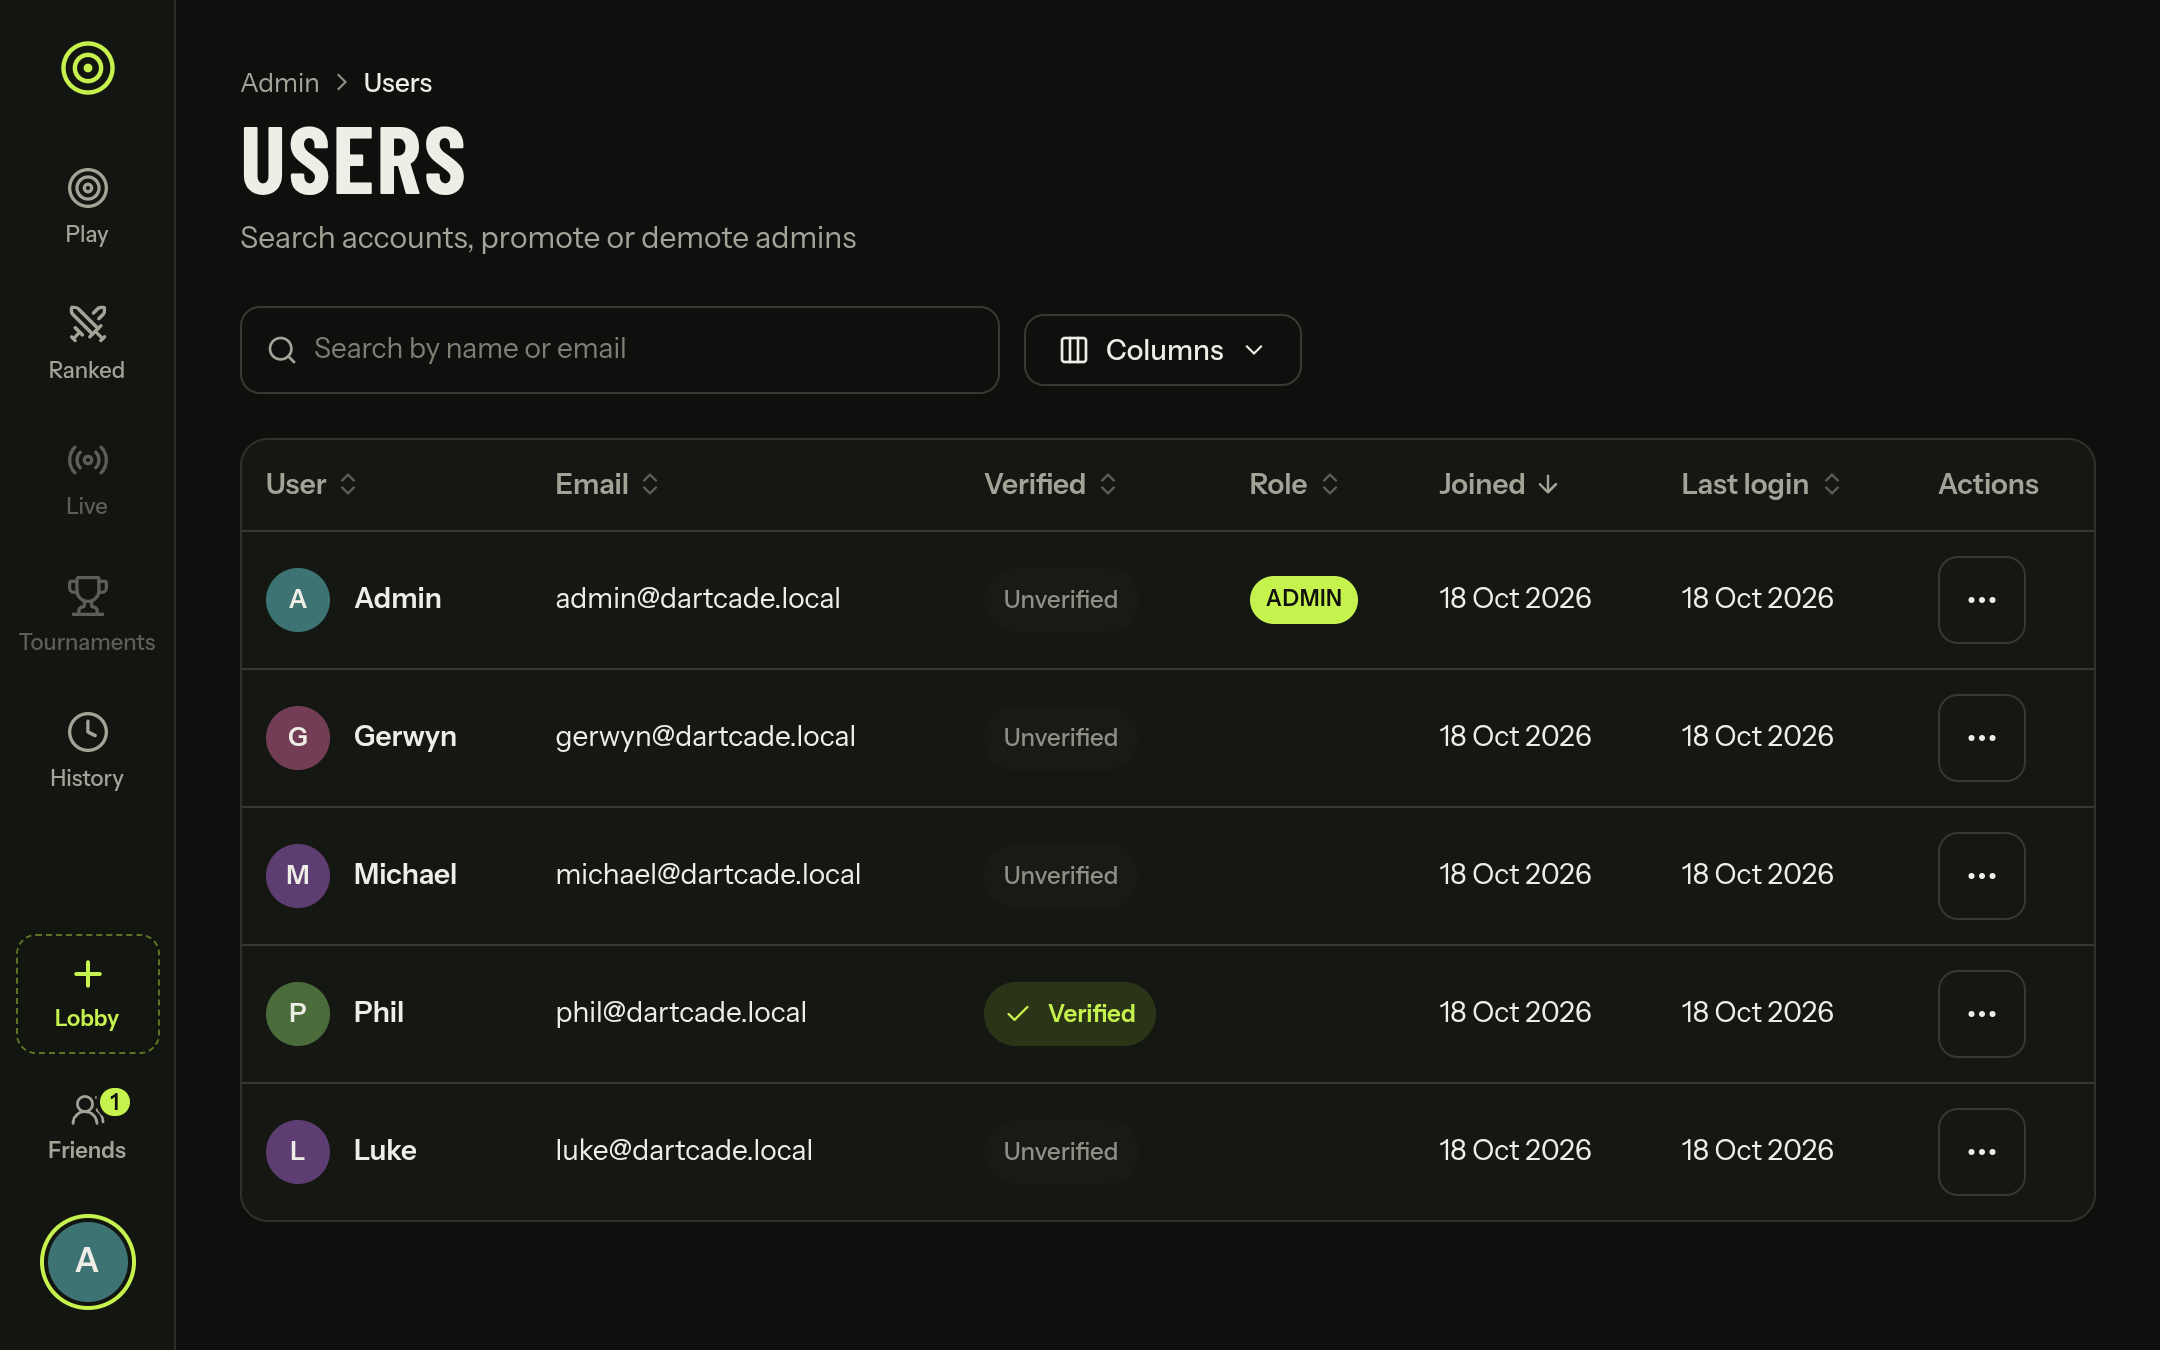
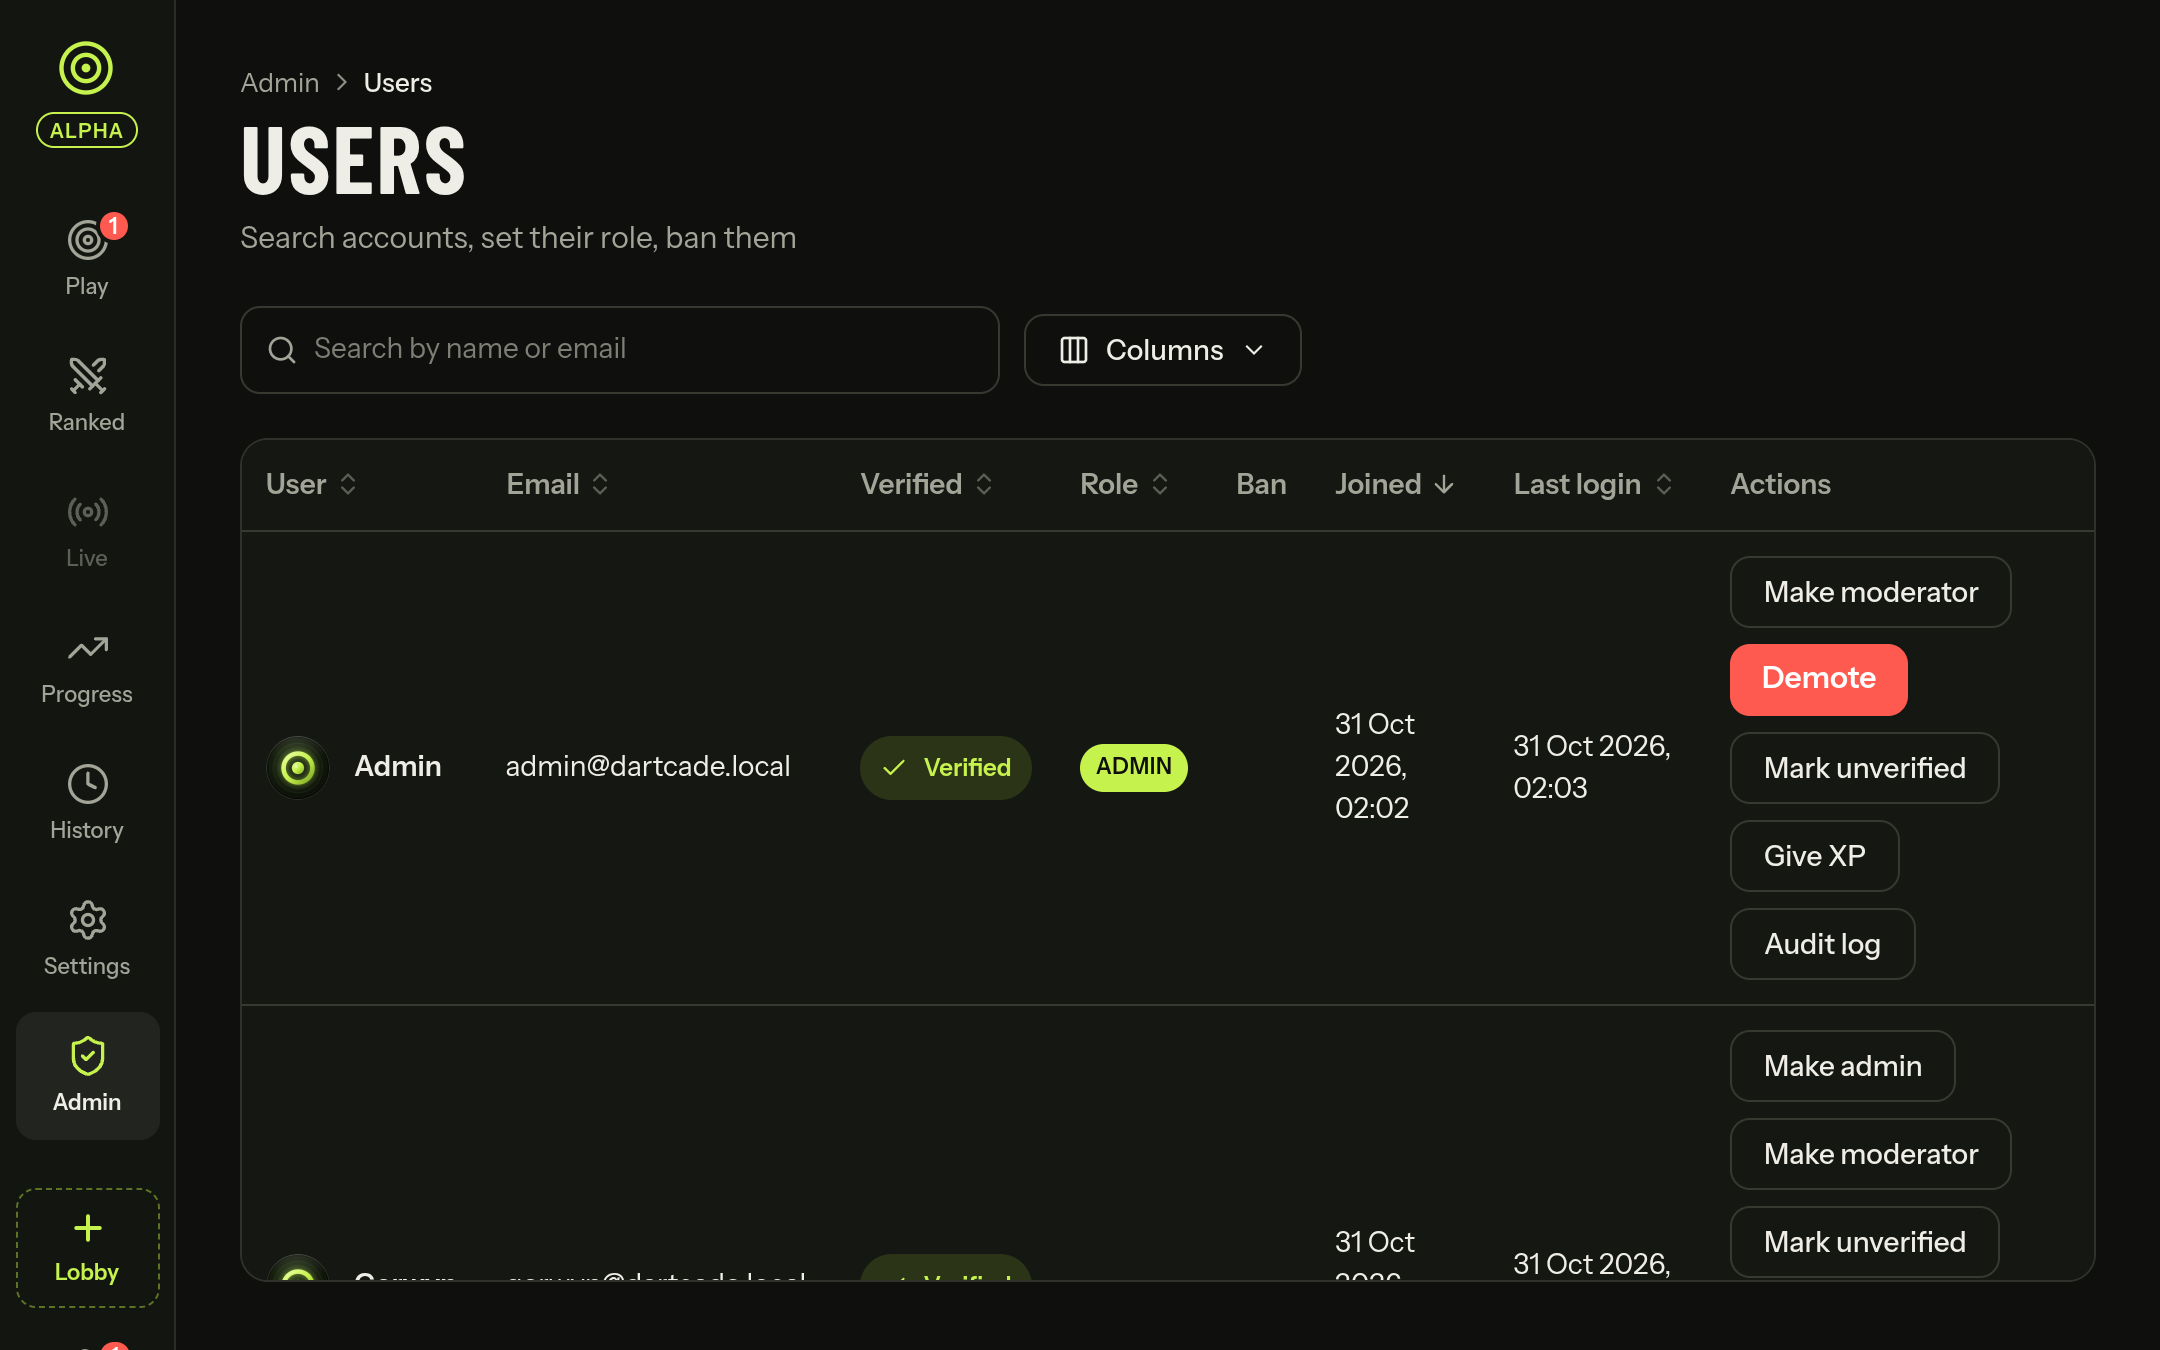
docs(admin): refresh users screenshot, add the audit log

diff --git a/e2e/screenshots/01-pages.spec.ts b/e2e/screenshots/01-pages.spec.ts
@@ -1,5 +1,5 @@
 import { test, expect } from '@playwright/test'
-import { VIEW, open, shot, hostLobby, leaveLobby, api, openAccountMenu, userId, X01 } from './helpers.js'
+import { VIEW, open, shot, hostLobby, leaveLobby, api, docPath, openAccountMenu, userId, X01 } from './helpers.js'
 
 // Pages that need no game: the seed's friends, its lobby (Luke's, with Phil, inviting Admin) and history
 
@@ -151,6 +151,11 @@ test('admin: hub and users', async ({ browser }) => {
   const philId = await userId(phil.page)
   await phil.ctx.close()
   await api(page).put(`/api/admin/users/${philId}/verified`, { verified: true })
+  // Michael unverified, so a rerun on a kept stack starts from the same page
+  const michael = await open(browser, 'michael', VIEW.desktop)
+  const michaelId = await userId(michael.page)
+  await michael.ctx.close()
+  await api(page).put(`/api/admin/users/${michaelId}/verified`, { verified: false })
 
   await page.goto('/#/admin/users')
   await expect(page.getByRole('heading', { name: 'Users' })).toBeVisible()
@@ -166,6 +171,14 @@ test('admin: hub and users', async ({ browser }) => {
   await dialog.getByRole('button', { name: 'Mark verified' }).click()
   await expect(dialog).toBeHidden()
   await expect(row.getByRole('button', { name: 'Mark unverified' })).toBeVisible()
+
+  // Something to show in Phil's audit log, then the log itself
+  await api(page).post(`/api/admin/users/${philId}/xp`, { amount: 1000 })
+  await page.getByRole('row').filter({ hasText: /phil/i }).getByRole('button', { name: 'Audit log' }).click()
+  const audit = page.getByRole('dialog')
+  await expect(audit.getByText('Gave XP').first()).toBeVisible()
+  await audit.screenshot({ path: docPath('admin/user-audit-desktop.png'), animations: 'disabled' })
+  await audit.getByRole('button', { name: 'Close' }).click()
 
   await ctx.close()
 })

diff --git a/backend/frontend/src/routes/AdminUsers.svelte b/backend/frontend/src/routes/AdminUsers.svelte
@@ -244,7 +244,7 @@
 {/snippet}
 
 {#snippet actionsCell(user: AdminUser)}
-  <div class="flex max-w-[360px] flex-col items-start gap-2">
+  <div class="flex w-[170px] max-w-full flex-col items-start gap-2">
     <div class="flex flex-wrap gap-2" role="group" aria-label="Actions for {user.name}">
       {#each roleActions(user.role) as action (action.role ?? 'none')}
         <Button
